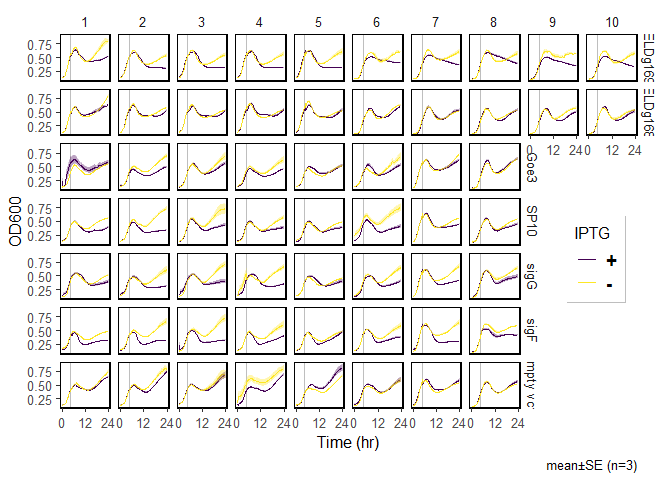
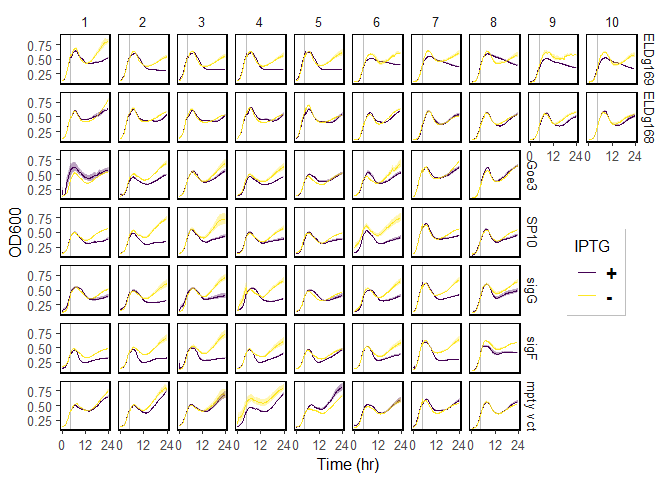
growth plot adjust

diff --git a/src/Growth_Curve.md b/src/Growth_Curve.md
@@ -168,7 +168,7 @@ p <- sum_colonies %>%
   ylab("OD600")+
   xlab("Time (hr)")+
   scale_x_continuous(breaks = c(0,12,24))+
-  labs(caption = "mean±SE (n=3)")+
+  # labs(caption = "mean±SE (n=3)")+
 
   theme_classic(base_size = 12)+
   panel_border(color = "black")+
@@ -219,6 +219,8 @@ grid.draw(grob)
 ```
 
 ![](Growth_Curve_files/figure-gfm/empty%20panels-1.png)<!-- -->
+
+mean±SE (n=3)
 
 ## OD at innoculation
 
